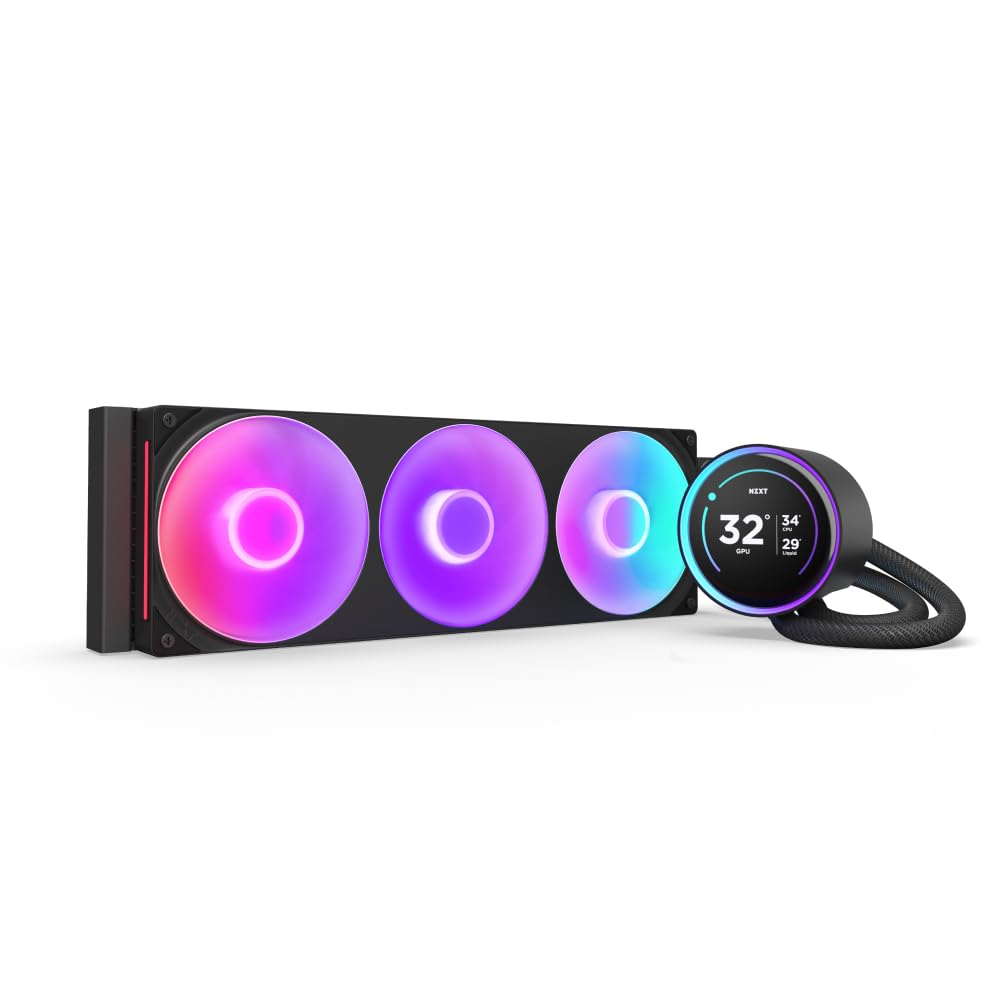
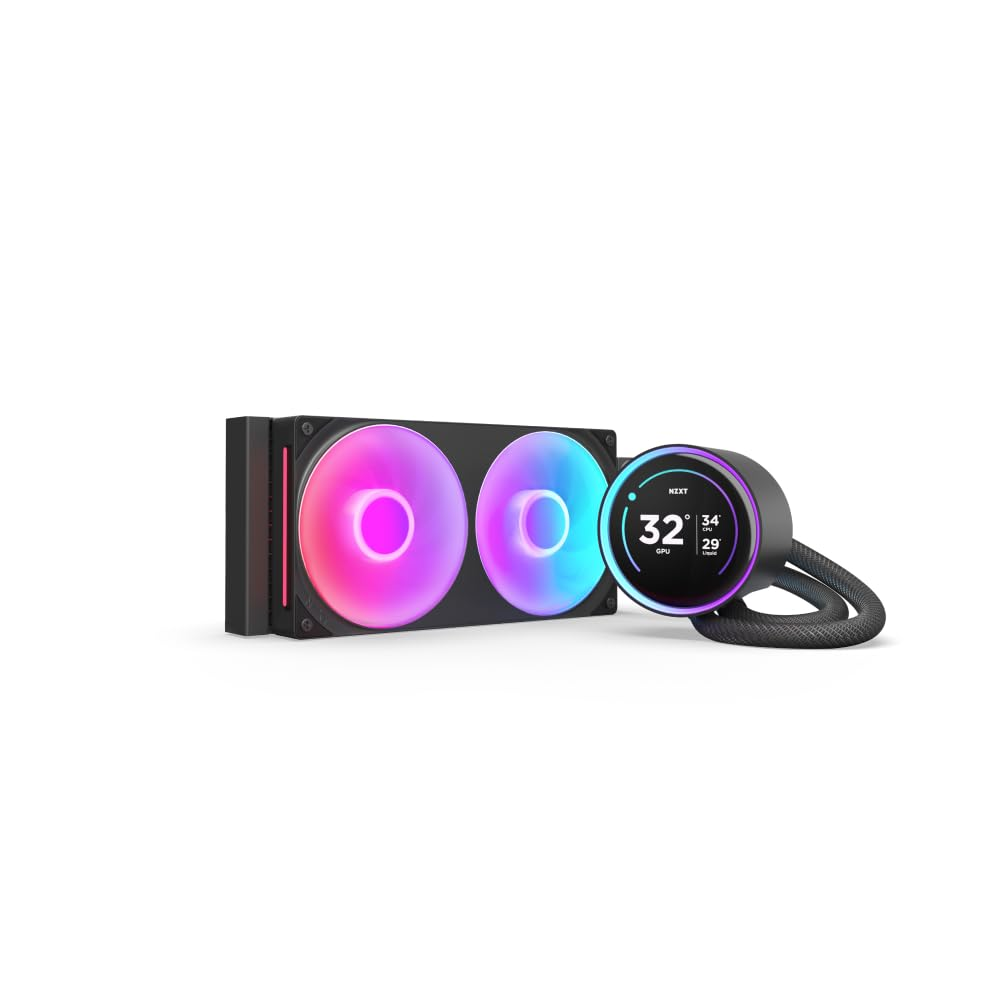
v6.04l
-Updated Central Esports page.
-Update Wishlist page.

Changed region(s): [[0.062, 0.403, 0.992, 0.682]]

diff --git a/Wishlist/script.js b/Wishlist/script.js
@@ -1,20 +1,4 @@
 const items = {
-    AIO: {
-        name: 'NZXT 360 RGB',
-        price: 279,
-        hearts: 4,
-        discount: '-13% OFF',
-        description: 'A computer component that uses liquid to cool the CPU, also including a customizable screen.',
-        specs: [
-            ['Size','360mm']
-        ],
-        links: [
-            {
-                name: 'Amazon',
-                link: 'https://a.co/d/fsh6rqY'
-            }
-        ]
-    },
     // SSD: {
     //     name: 'SSD',
     //     price: 269,
@@ -30,6 +14,37 @@ const items = {
     //         }
     //     ]
     // },
+    // RAM: {
+    //     name: 'RAM (2x16GB)',
+    //     price: 349.99,
+    //     hearts: '-',
+    //     description: 'A computer component that holds temporary storage. (Unfortunately the prices on these have skyrocketed due to AI)',
+    //     specs: [],
+    //     links: [
+    //         {
+    //             name: 'Amazon',
+    //             link: 'https://a.co/d/hxsE4FO'
+    //         }
+    //     ],
+
+    //     puter: true
+    // },
+    AIO: {
+        name: 'NZXT 240 RGB',
+        price: 179.99,
+        hearts: 4,
+        description: 'A computer component that uses liquid to cool the CPU, also including a customizable screen.',
+        specs: [
+            ['Size','240mm'],
+            ['Color','Black']
+        ],
+        links: [
+            {
+                name: 'Amazon',
+                link: 'https://a.co/d/0fz3BjH'
+            }
+        ]
+    },
     monitor: {
         name: 'ASUS TUF Gaming 27” 1440P HDR Monitor',
         price: 179,
@@ -43,6 +58,22 @@ const items = {
             {
                 name: 'Amazon',
                 link: 'https://a.co/d/5XhV8ks'
+            }
+        ]
+    },
+    RuinSeekerHoodie: {
+        name: 'Ruin Seeker Hoodie',
+        price: 69,
+        hearts: 5,
+        discount: 'SOLD OUT as of 11/27',
+        description: 'A hoodie with designs based on one of my favorite games.',
+        specs: [
+            ['Size','Large']
+        ],
+        links: [
+            {
+                name: 'Fangamer',
+                link: 'https://www.fangamer.com/products/tunic-hoodie-ruin-seeker'
             }
         ]
     },
@@ -64,8 +95,8 @@ const items = {
         price: 'Price Varies',
         hearts: 4,
         description: 'Collectable cards.',
+        discount: 'Discounts at Walmart',
         specs: [
-            ['Good luck','finding them'],
             ['Preferred set','Black Bolt']
         ],
         links: [
@@ -79,21 +110,6 @@ const items = {
             }
         ]
     },
-    // RuinSeekerHoodie: {
-    //     name: 'Ruin Seeker Hoodie',
-    //     price: 69,
-    //     hearts: 5,
-    //     description: 'A hoodie with designs based on one of my favorite games.',
-    //     specs: [
-    //         ['Size','Large']
-    //     ],
-    //     links: [
-    //         {
-    //             name: 'Fangamer',
-    //             link: 'https://www.fangamer.com/products/tunic-hoodie-ruin-seeker'
-    //         }
-    //     ]
-    // },
     // rgbController: {
     //     name: 'NZXT RGB & Fan Controller',
     //     price: 34.99,
@@ -157,7 +173,11 @@ for(const key in items) {
         div.getElementsByClassName('itemDiscount')[0].remove()
     }
 
-    doge('innerItemContainer').append(div)
+    if(item.puter) {
+        doge('pcItemContainer').append(div)
+    } else {
+        doge('mainItemContainer').append(div)
+    }
 
     div.onclick = () => {openItem(item, key)}
 }

diff --git a/Wishlist/index.html b/Wishlist/index.html
@@ -82,11 +82,18 @@
       <wavey id="header">Wishlist</wavey>
       <span>All websites used here are secure!</span><br>
       <em style="color: yellow;">This is still under construction! Check back later for more items!</em>
-      <em>Last updated November 11th, 2025</em>
+      <em>Last updated November 27th, 2025</em>
     </div>
 
     <div id="itemContainer">
-      <div id="innerItemContainer"></div>
+      <div class="innerItemContainer" id="mainItemContainer"></div>
+    </div>
+    <!-- <div id="pcItemContainer">
+      <wavey style="font-size: 1.25em; font-weight: 700;">Help me upgrade my PC!</wavey>
+      <span>All items below need each other to be used!</span>
+      <div class="innerItemContainer" id="pcItemContainer">
+
+      </div> -->
     </div>
 
     <script src="../DeBread.js"></script>

diff --git a/home/index.html b/home/index.html
@@ -294,7 +294,7 @@
     </div>
 
     <div id="footer">
-        <a onclick="gotoPage('https://github.com/notdebread',true)" style="color: white;">v6.04k</a>
+        <a onclick="gotoPage('https://github.com/notdebread',true)" style="color: white;">v6.04l</a>
     </div>
 
     <div class="mobileIncompatible" id="outerGuyContainer"> <!--Fixed positioning-->

diff --git a/Wishlist/styles.css b/Wishlist/styles.css
@@ -179,12 +179,19 @@
     margin-top: 50px;
 }
 
-#innerItemContainer {
+.innerItemContainer {
     width: 90dvw;
     display: flex;
     justify-content: center;
     flex-wrap: wrap;
     gap: 50px;
+}
+
+#pcItemContainer {
+    display: flex;
+    align-items: center;
+    flex-direction: column;
+    margin-top: 50px;
 }
 
 .item {

diff --git a/global.js b/global.js
@@ -107,7 +107,7 @@ setTimeout(() => {
         loadingSkipped = true
         console.warn('Seems like it took too long to load. Hiding loading screen anyways.')
     }
-}, 5000);
+}, 2000);
 
 if(currentDate.getMonth()+1 >= 11 || currentDate.getMonth()+1 <= 2) {
     if(doge('guy')) {
